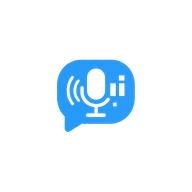
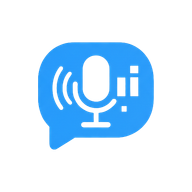
Ajustar padding dos ícones PWA para 20%

Changed region(s): [[0.1875, 0.2188, 0.8125, 0.7812]]

diff --git a/generate-icons.js b/generate-icons.js
@@ -20,8 +20,8 @@ Promise.all(
     const outputFile = path.join(outputDir, `pwa-${size}x${size}.png`);
     
     try {
-      // Adiciona padding de 40% do tamanho
-      const padding = Math.floor(size * 0.4);
+      // Adiciona padding de 20% do tamanho
+      const padding = Math.floor(size * 0.2);
       const iconSize = size - (padding * 2);
       
       await sharp(inputFile)
